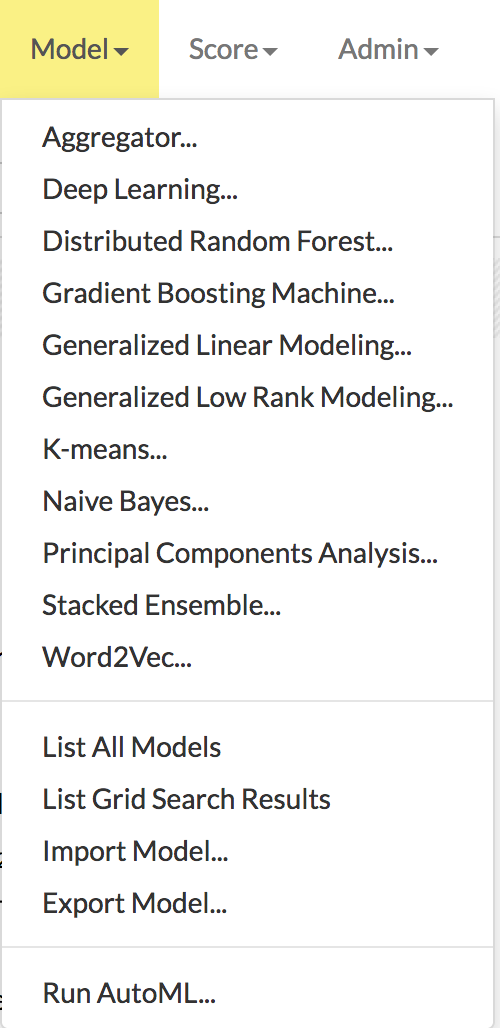
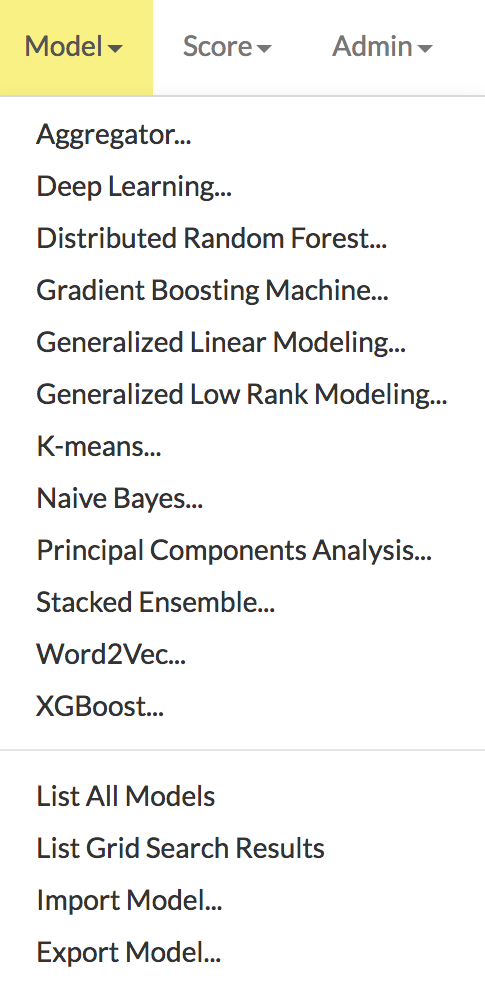
Continue removing beta feature
- Updated screenshot in Flow to remove beta feature.
Driveby fix: Add missing algos to list in Flow topic.

diff --git a/h2o-docs/src/product/flow.rst b/h2o-docs/src/product/flow.rst
@@ -789,6 +789,9 @@ In the **Build a Model** cell, select an algorithm from the drop-down menu. (Ref
  - **K-means**: Create a K-Means model.
  - **Naïve Bayes**: Create a Naïve Bayes model.
  - **Principal Component Analysis**: Create a Principal Components Analysis model for modeling without regularization or performing dimensionality reduction.
+ - **Stacked Ensembles**: Create a Stacked Ensembles model.
+ - **Word2vec**: Create a Word2vec model.
+ - **XGBoost**: Create an XGBoost model.
 
  .. figure:: images/Flow_model_dropdown.png
     :alt: Flow Model dropdown menu
